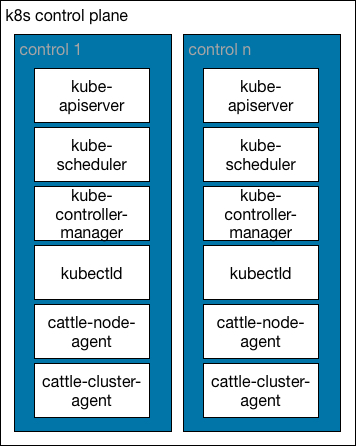
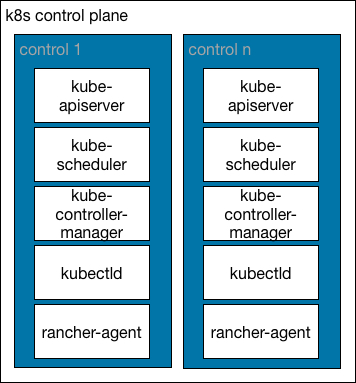
Updated graphs

Changed region(s): [[0.0, 0.0, 0.9579, 0.9191], [0.0, 0.9478, 0.9888, 1.0]]

diff --git a/slides/Kubernetes/slides/Kubernetes.md b/slides/Kubernetes/slides/Kubernetes.md
@@ -56,7 +56,7 @@ For production, running each plane runs on dedicated physical or virtual hosts i
 ---
 
 #### Architecture
-<img src="slides/Kubernetes/slides/images/k8s-scheme-v2.0.jpg", style="width:auto; height:auto; background-color:white; align:center;"/>
+<img src="slides/Kubernetes/slides/images/k8s-scheme.jpg", style="width:auto; height:auto; background-color:white; align:center;"/>
 
 ---
 
@@ -64,7 +64,7 @@ For production, running each plane runs on dedicated physical or virtual hosts i
 Comprised of etcd cluster services which persist data ok k8s cluster. 
 
 - etcd
-- cattle-node-agent (if k8s cluster is managed by Rancher)
+- rancher-agent 
 
 Resiliency is achieved by adding 3 hosts to this plane.
 
@@ -80,8 +80,7 @@ k8s/Rancher stateless and scalable components which orchestrate and manage worke
 - kube-apiserver
 - kube-scheduler
 - kube-controller-manager
-- cattle-cluster-agent (if k8s cluster is managed by Rancher)
-- cattle-node-agent (if k8s cluster is managed by Rancher)
+- rancher-agent
 
 ---
 
@@ -94,7 +93,7 @@ k8s/Rancher stateless and scalable components which orchestrate and manage worke
 Comprised of the real workload (Kubernetes pods) and k8s/Rancher components, orchestrated and managed by k8s control plane:
 - kubelet
 - kube-proxy
-- cattle-node-agent (if k8s cluster is managed by Rancher)
+- rancher-agent
 
 ---
 
@@ -118,15 +117,10 @@ Characteristics
 - No resiliency to host failure
 - Low performance
 
-Instructions
-- Create 1 host with >=1 CPU and >=4GB RAM.
-- Create RKE template with 3 roles at single node.
-- Deploy RKE cluster.
-
 ---
 
 #### Standalone
-<img src="slides/Kubernetes/slides/images/standalone-scheme-v2.0.jpg", style="width:auto; height:auto; background-color:white; align:center;"/>
+<img src="slides/Kubernetes/slides/images/standalone-scheme.jpg", style="width:auto; height:auto; background-color:white; align:center;"/>
 
 ---
 
@@ -141,16 +135,7 @@ Characteristics
 ---
 
 #### Overlapping planes
-
-Instructions
-- Create 3 hosts with >=1 CPU and >=4GB RAM.
-- Create RKE template with 3 roles at every node.
-- Deploy RKE cluster.
-
----
-
-#### Overlapping planes
-<img src="slides/Kubernetes/slides/images/overlapped_planes-scheme-v2.0.jpg", style="width:auto; height:auto; background-color:white; align:center;"/>
+<img src="slides/Kubernetes/slides/images/overlapped_planes-scheme.jpg", style="width:auto; height:auto; background-color:white; align:center;"/>
 
 ---
 
@@ -164,19 +149,9 @@ Characteristics
 
 ---
 
-Instructions
-- Create 7 hosts with >=1 CPU and >=4GB RAM.
-- Create RKE template with 
-  - 3 nodes with etcd role.
-  - 2 nodes with controlplane role.
-  - 2 nodes with worker role.
-- Deploy RKE cluster.
-
----
-
 #### Separated planes
 
-<img src="slides/Kubernetes/slides/images/separated_planes-scheme-v2.0.jpg", style="width:auto; height:auto; background-color:white; align:center;"/>
+<img src="slides/Kubernetes/slides/images/separated_planes-scheme.jpg", style="width:auto; height:auto; background-color:white; align:center;"/>
 
 ---
 
@@ -186,7 +161,6 @@ Based on functionality, services are split into 4 categories:
 - K8s master: k8s services that conform etcd and control planes.
 - K8s node: k8s services that conform worker plane.
 - K8s addons: k8s optional services that extend k8s functionality.
-- Rancher services: rancher services at all planes to control and manage k8s cluster.
 
 https://kubernetes.io/docs/concepts/overview/components/
 
@@ -251,14 +225,6 @@ Some typical addons:
 - DNS: K8s cluster dns to maintain  dns records for services. 
 - Web UI: allows users to manage and troubleshoot applications running in the cluster. 
 - Container Resource Monitoring: records generic time-series metrics about containers in a central database, and provides a UI for browsing that data.
-
----
-
-#### Rancher services
-
-These services would be running if k8s cluster is managed by Rancher:
-- cattle-cluster-agent: Rancher Cluster agent that connect and report cluster status to rancher API.
-- cattle-node-agent: Rancher node agent that connect and report node status to rancher API.
 
 ---
 

diff --git a/README.md b/README.md
@@ -8,7 +8,7 @@ index.html and slides are packaged into a docker. This docker would start a web 
 
 ## Versions
 
-- `0.1-0` [(Dockerfile)](https://github.com/rawmind0/rancher-training/blob/0.1-0/Dockerfile)
+- `0.1-1` [(Dockerfile)](https://github.com/rawmind0/rancher-training/blob/0.1-1/Dockerfile)
 
 ## Build
 
